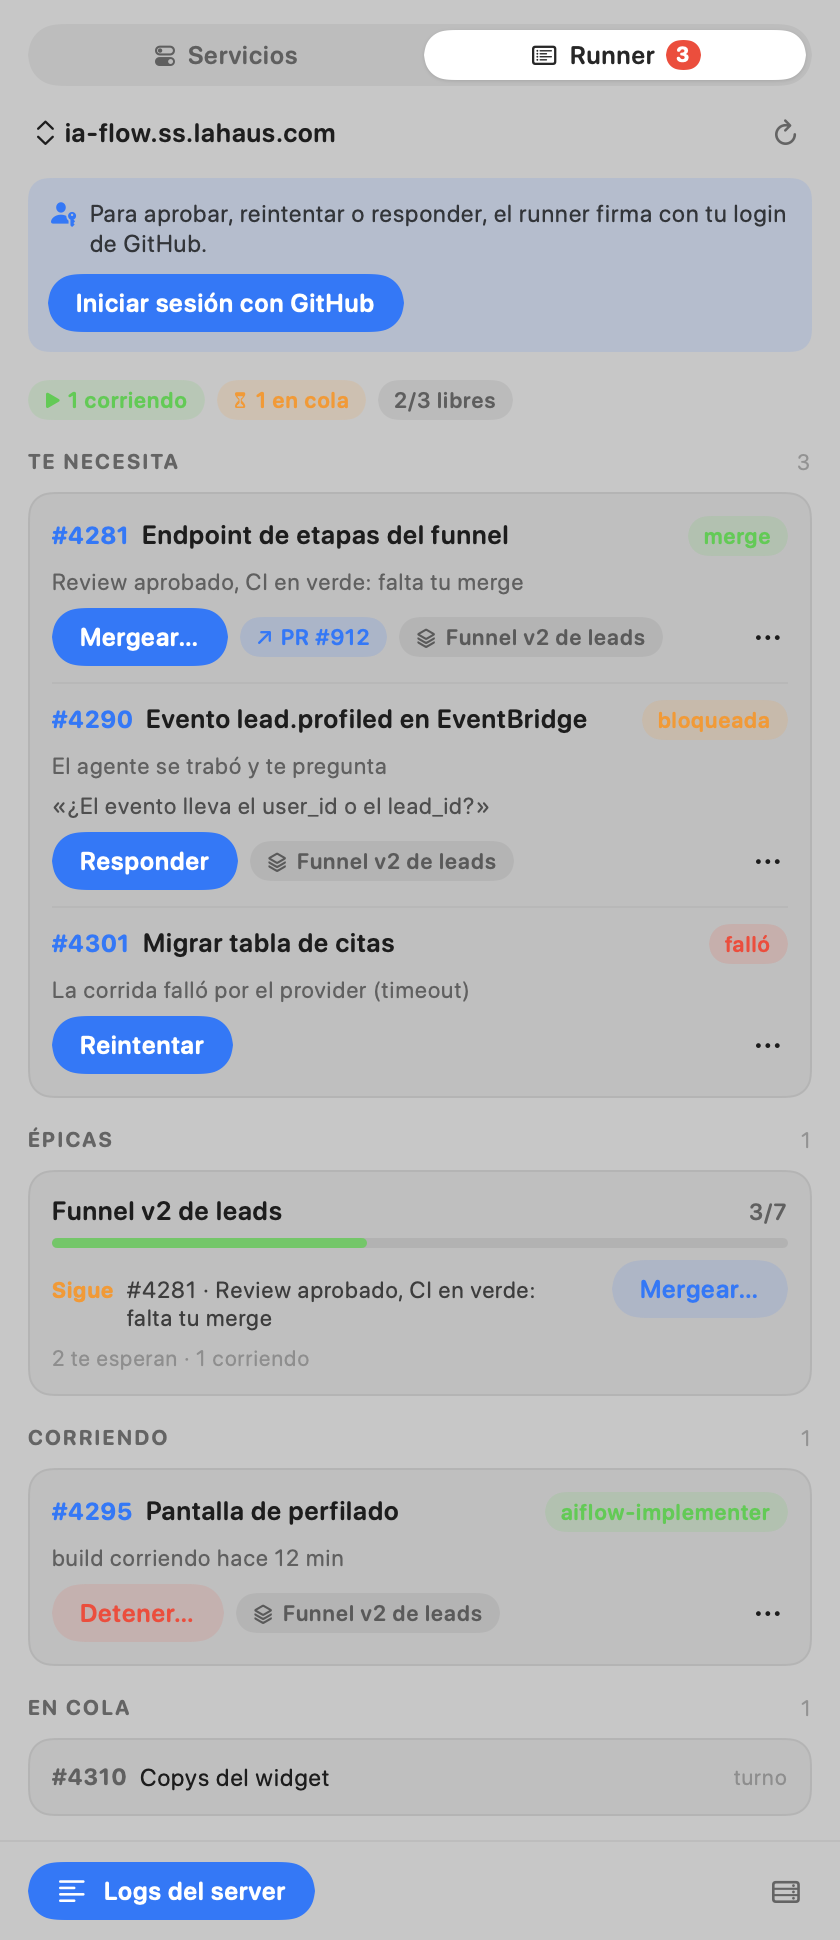
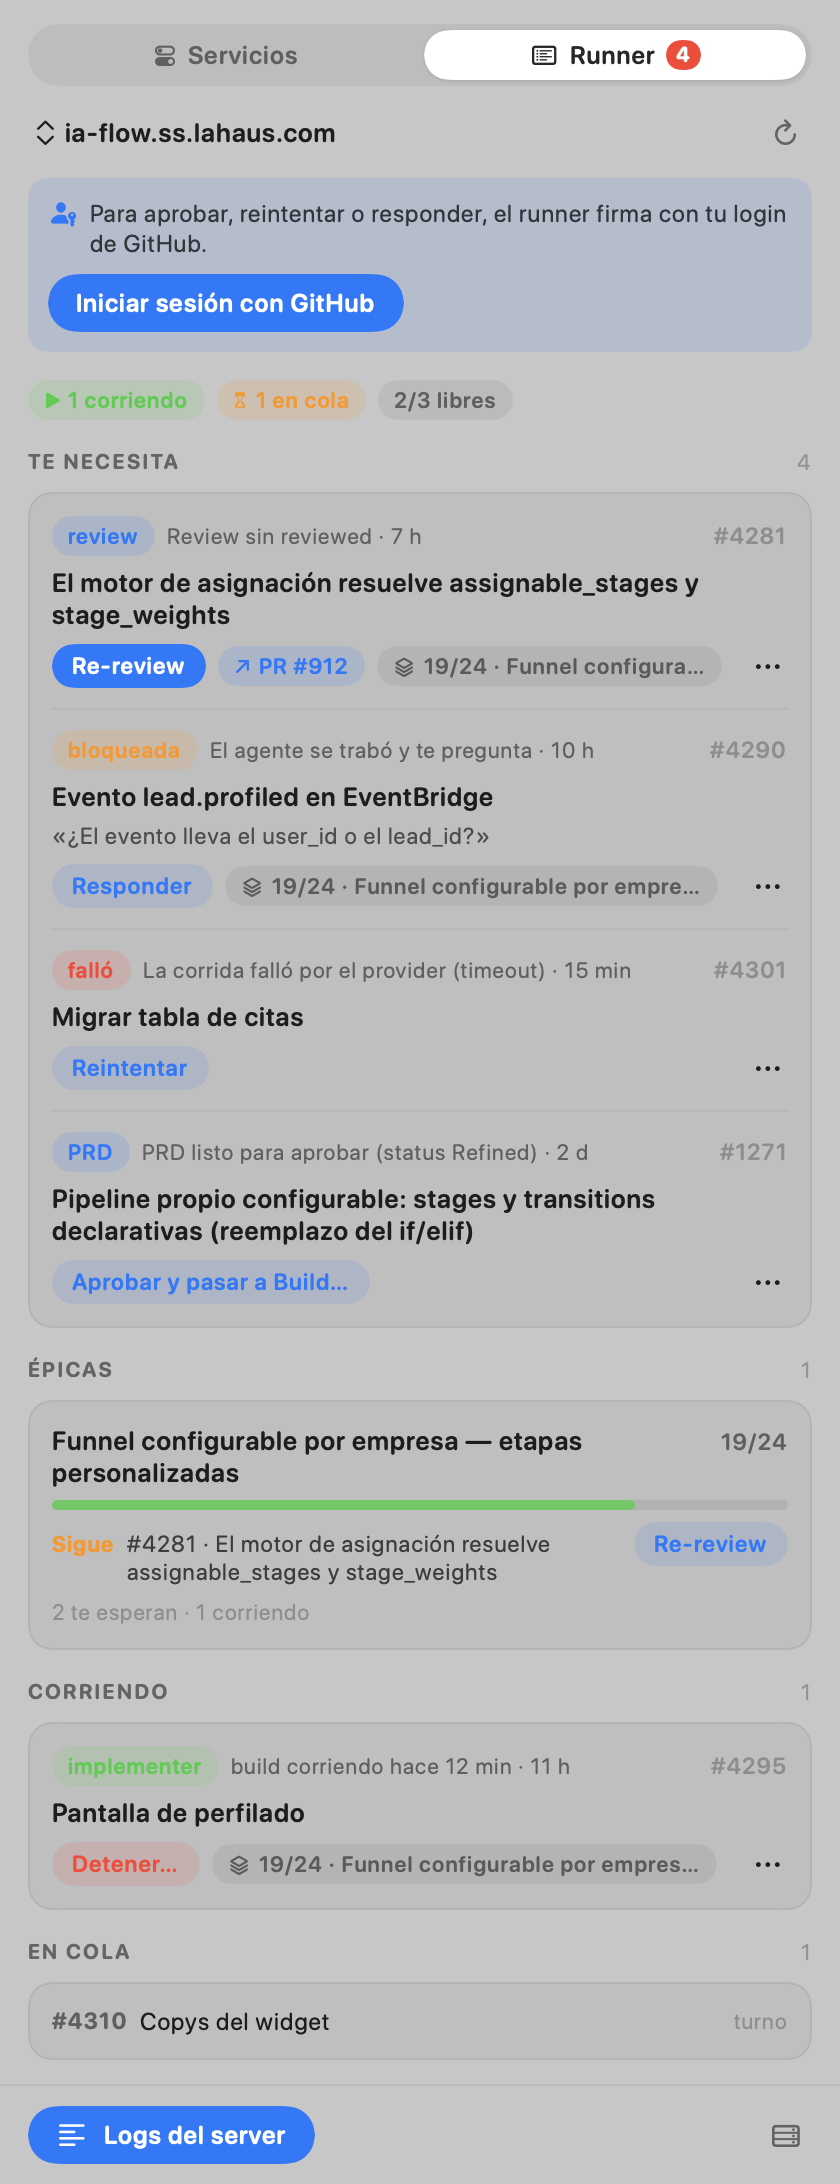
feat(menubar): filas de la bandeja más compactas y legibles
Un solo botón lleno por pantalla (la primera decisión) y botones compactos en una
línea; el caso y hace cuánto van en la línea del porqué; títulos sin el prefijo
de Conventional Commits; el PR no se repite y la épica muestra su avance primero.

diff --git a/apps/menubar/RunnerViews.swift b/apps/menubar/RunnerViews.swift
@@ -104,8 +104,8 @@ struct RunnerInboxScreen: View {
         let decisions = runner.decisions, running = runner.running, epics = runner.epics, queued = runner.queued
         section("Te necesita", count: decisions.count, empty: "Nada esperando una decisión tuya.") {
             ForEach(Array(decisions.enumerated()), id: \.element.ref) { i, item in
-                if i > 0 { Divider().opacity(0.4).padding(.vertical, 8) }
-                TaskRow(runner: runner, item: item)
+                if i > 0 { Divider().opacity(0.4).padding(.vertical, 10) }
+                TaskRow(runner: runner, item: item, primary: i == 0)
             }
         }
         if !epics.isEmpty {
@@ -118,7 +118,7 @@ struct RunnerInboxScreen: View {
         }
         section("Corriendo", count: running.count, empty: "Ningún agente trabajando ahora.") {
             ForEach(Array(running.enumerated()), id: \.element.ref) { i, item in
-                if i > 0 { Divider().opacity(0.4).padding(.vertical, 8) }
+                if i > 0 { Divider().opacity(0.4).padding(.vertical, 10) }
                 TaskRow(runner: runner, item: item)
             }
         }
@@ -154,40 +154,51 @@ struct RunnerInboxScreen: View {
     }
 }
 
-/// Una tarea con su porqué y sus acciones: la principal como botón, las demás en el menú ⋯.
+/// Una tarea: qué caso es y hace cuánto, el título, por qué está acá y sus acciones. Sólo la primera decisión de la
+/// pantalla lleva el botón lleno (como en la web, un solo primario); las demás, en tono.
 struct TaskRow: View {
     @ObservedObject var runner: RunnerModel
     let item: InboxItem
+    var primary = false
 
     var body: some View {
         let actions = actionsOf(item)
         let busy = runner.busy.contains(item.ref)
-        VStack(alignment: .leading, spacing: 6) {
-            HStack(alignment: .firstTextBaseline, spacing: 6) {
-                Button { runner.open(item) } label: { Text(item.shortRef).font(.lh(12, .bold)).foregroundStyle(Color.accentColor) }
-                    .buttonStyle(.plain).help("Abrir \(item.ref) en GitHub")
-                Text(item.title).font(.lh(13, .semibold)).lineLimit(2)
-                Spacer(minLength: 4)
+        VStack(alignment: .leading, spacing: 5) {
+            HStack(spacing: 6) {
                 kindChip
+                Text(meta).font(.lh(11)).foregroundStyle(.secondary).lineLimit(1)
+                Spacer(minLength: 4)
+                Button { runner.open(item) } label: { Text(item.shortRef).font(.lh(11.5, .semibold)).foregroundStyle(.tertiary) }
+                    .buttonStyle(.plain).help("Abrir \(item.ref) en GitHub")
             }
-            Text(item.why).font(.lh(11.5)).foregroundStyle(.secondary).lineLimit(3).fixedSize(horizontal: false, vertical: true)
+            Button { runner.open(item) } label: {
+                Text(item.displayTitle).font(.lh(13, .semibold)).lineLimit(2).multilineTextAlignment(.leading)
+                    .frame(maxWidth: .infinity, alignment: .leading).contentShape(Rectangle())
+            }
+            .buttonStyle(.plain).help(item.title)
             if let said = item.agent_said, item.isDecision {
                 Text("«\(said)»").font(.lh(11.5)).italic().foregroundStyle(.primary.opacity(0.7)).lineLimit(3)
             }
             HStack(spacing: 6) {
                 if let first = actions.first {
                     Button { runner.trigger(first, on: item) } label: {
-                        if busy { ProgressView().controlSize(.small).scaleEffect(0.6).frame(width: 40) }
+                        if busy { ProgressView().controlSize(.small).scaleEffect(0.5).frame(width: 40, height: 14) }
                         else { Text(first.confirms ? "\(first.label)…" : first.label) }
                     }
-                    .buttonStyle(PillButtonStyle(prominent: item.isDecision, tint: first.id == "stop" ? .red : .accentColor))
+                    .buttonStyle(PillButtonStyle(prominent: primary, tint: first.id == "stop" ? .red : .accentColor, compact: true))
+                    .fixedSize()
                     .disabled(busy)
                 }
                 if let pr = item.pr {
-                    Button { runner.openPR(item) } label: { Chip(text: "PR #\(pr.number)", tone: .info, icon: "arrow.up.right") }.buttonStyle(.plain)
+                    Button { runner.openPR(item) } label: { Chip(text: "PR #\(pr.number)", tone: .info, icon: "arrow.up.right") }
+                        .buttonStyle(.plain).fixedSize()
                 }
-                if let epic = item.epic { Chip(text: epic.title, icon: "square.stack.3d.up").help("Épica \(epic.ref)") }
-                Spacer()
+                if let epic = item.epic {
+                    Chip(text: "\(epic.done)/\(epic.total) · \(epic.displayTitle)", icon: "square.stack.3d.up")
+                        .help("Épica \(epic.ref): \(epic.title)")
+                }
+                Spacer(minLength: 0)
                 Menu {
                     ForEach(actions.dropFirst()) { action in
                         Button(action.confirms ? "\(action.label)…" : action.label, role: action.id == "stop" ? .destructive : nil) {
@@ -197,12 +208,21 @@ struct TaskRow: View {
                     if actions.count > 1 { Divider() }
                     Button("Abrir issue en GitHub") { runner.open(item) }
                     if item.pr != nil { Button("Abrir PR") { runner.openPR(item) } }
+                    if let epic = item.epic { Button("Abrir épica") { runner.openEpic(epic) } }
                 } label: {
-                    Image(systemName: "ellipsis").font(.system(size: 12, weight: .semibold)).frame(width: 26, height: 22).contentShape(Rectangle())
+                    Image(systemName: "ellipsis").font(.system(size: 12, weight: .semibold)).frame(width: 24, height: 20).contentShape(Rectangle())
                 }
                 .menuStyle(.borderlessButton).menuIndicator(.hidden).fixedSize().foregroundStyle(.secondary)
             }
+            .padding(.top, 2)
         }
+    }
+
+    /// El porqué sin repetir el PR (va como chip) y con hace cuánto.
+    private var meta: String {
+        var why = item.why
+        if let pr = item.pr { why = why.replacingOccurrences(of: " · PR #\(pr.number)", with: "") }
+        return [why, item.age].compactMap { $0 }.joined(separator: " · ")
     }
 
     private var kindChip: some View {
@@ -214,12 +234,12 @@ struct TaskRow: View {
             case "crash": return ("falló", .bad)
             case "stale": return ("quieta", .warn)
             case "review": return ("review", .info)
-            case "agent": return (item.execution?.agent_id ?? "agente", .ok)
+            case "agent": return (item.execution?.agent_id?.replacingOccurrences(of: "aiflow-", with: "") ?? "agente", .ok)
             case "ci": return ("CI", .info)
             default: return (item.kind, .neutral)
             }
         }()
-        return Chip(text: text, tone: tone)
+        return Chip(text: text, tone: tone).fixedSize()
     }
 }
 
@@ -231,7 +251,7 @@ struct CompactRow: View {
         Button { runner.open(item) } label: {
             HStack(spacing: 6) {
                 Text(item.shortRef).font(.lh(11.5, .bold)).foregroundStyle(.secondary)
-                Text(item.title).font(.lh(12)).lineLimit(1)
+                Text(item.displayTitle).font(.lh(12)).lineLimit(1)
                 Spacer()
                 Text(item.kind == "dep" ? "bloqueada" : "turno").font(.lh(11)).foregroundStyle(.tertiary)
             }
@@ -250,7 +270,7 @@ struct EpicRow: View {
     var body: some View {
         VStack(alignment: .leading, spacing: 6) {
             HStack(alignment: .firstTextBaseline) {
-                Button { runner.openEpic(epic.epic) } label: { Text(epic.epic.title).font(.lh(13, .semibold)).lineLimit(2).multilineTextAlignment(.leading) }
+                Button { runner.openEpic(epic.epic) } label: { Text(epic.epic.displayTitle).font(.lh(13, .semibold)).lineLimit(2).multilineTextAlignment(.leading) }
                     .buttonStyle(.plain).help("Abrir \(epic.epic.ref)")
                 Spacer()
                 Text("\(epic.epic.done)/\(epic.epic.total)").font(.lh(11.5, .semibold)).foregroundStyle(.secondary)
@@ -261,14 +281,14 @@ struct EpicRow: View {
                     Text(next.isDecision ? "Sigue" : next.group == "run" ? "Corre" : "Espera").font(.lh(11, .bold))
                         .foregroundStyle(next.isDecision ? Color.orange : .secondary)
                     Button { runner.open(next) } label: {
-                        Text("\(next.shortRef) · \(next.why)").font(.lh(11.5)).foregroundStyle(.primary.opacity(0.8)).lineLimit(2)
+                        Text("\(next.shortRef) · \(next.displayTitle)").font(.lh(11.5)).foregroundStyle(.primary.opacity(0.8)).lineLimit(2)
                             .multilineTextAlignment(.leading)
                     }
                     .buttonStyle(.plain)
                     Spacer(minLength: 4)
                     if next.isDecision, let action = actionsOf(next).first {
                         Button(action.confirms ? "\(action.label)…" : action.label) { runner.trigger(action, on: next) }
-                            .buttonStyle(PillButtonStyle(tint: .accentColor)).disabled(runner.busy.contains(next.ref))
+                            .buttonStyle(PillButtonStyle(tint: .accentColor, compact: true)).fixedSize().disabled(runner.busy.contains(next.ref))
                     }
                 }
             }

diff --git a/apps/menubar/RunnerModel.swift b/apps/menubar/RunnerModel.swift
@@ -23,6 +23,36 @@ struct EpicView: Identifiable {
 extension InboxItem {
     /// Lo que espera a una persona: `need` y `fail`.
     var isDecision: Bool { group == "need" || group == "fail" }
+    var displayTitle: String { cleanTitle(title) }
+    /// Hace cuánto está en este estado («3 h», «2 d»).
+    var age: String? { ago(since) }
+}
+
+extension TaskEpic {
+    var displayTitle: String { cleanTitle(title) }
+}
+
+/// Sin el prefijo de Conventional Commits (`feat(crm): `) que traen los títulos de los issues: en 420 pt ocupa
+/// el lugar de lo que dice el título.
+func cleanTitle(_ title: String) -> String {
+    let stripped = title.replacingOccurrences(of: #"^[a-z]+(\([^)]*\))?!?:\s*"#, with: "", options: .regularExpression)
+    guard let first = stripped.first, !stripped.isEmpty else { return title }
+    return first.uppercased() + stripped.dropFirst()
+}
+
+private let isoFractional: ISO8601DateFormatter = {
+    let f = ISO8601DateFormatter()
+    f.formatOptions = [.withInternetDateTime, .withFractionalSeconds]
+    return f
+}()
+
+func ago(_ iso: String, now: Date = Date()) -> String? {
+    guard let date = isoFractional.date(from: iso) ?? ISO8601DateFormatter().date(from: iso) else { return nil }
+    let minutes = Int(now.timeIntervalSince(date) / 60)
+    if minutes < 1 { return "ahora" }
+    if minutes < 60 { return "\(minutes) min" }
+    if minutes < 48 * 60 { return "\(minutes / 60) h" }
+    return "\(minutes / 1440) d"
 }
 
 /// Una acción como la dibuja el menú (las mismas reglas que `apps/web/src/features/inbox/queue/kinds.ts`).
@@ -333,21 +363,26 @@ final class RunnerModel: ObservableObject {
 extension RunnerModel {
     /// Datos de ejemplo para las capturas: no llama a ningún server.
     static func fixture() -> RunnerModel {
-        let epic = TaskEpic(ref: "la-haus/subscriptions#4200", title: "Funnel v2 de leads", done: 3, total: 7)
+        let epic = TaskEpic(ref: "la-haus/subscriptions#4200", title: "feat(360): funnel configurable por empresa — etapas personalizadas", done: 19, total: 24)
         func item(_ n: Int, _ title: String, group: String, kind: String, why: String, actions: [String],
                   epic: TaskEpic? = nil, priority: Int? = nil, said: String? = nil, pr: Int? = nil, agent: String? = nil) -> InboxItem {
             InboxItem(ref: "la-haus/subscriptions#\(n)", project_id: "p", title: title, url: "https://github.com", group: group, kind: kind,
-                      status: nil, why: why, since: "2026-10-15T10:00:00Z", pr: pr.map { PullRef(number: $0, url: "https://github.com") },
+                      status: nil, why: why, since: ISO8601DateFormatter().string(from: Date().addingTimeInterval(-Double(n % 50) * 900)), pr: pr.map { PullRef(number: $0, url: "https://github.com") },
                       execution: agent.map { ExecutionSummary(id: "x", pipeline_id: "build", status: "running", started_at: "", agent_id: $0) },
                       blocked_by: nil, epic: epic, agent_said: said, actions: actions, action_defs: nil, priority: priority, reasons: nil)
         }
         let inbox = Inbox(generated_at: "", projects: [], items: [
-            item(4281, "Endpoint de etapas del funnel", group: "need", kind: "merge", why: "Review aprobado, CI en verde: falta tu merge",
-                 actions: ["merge", "rerun_review"], epic: epic, priority: 1, pr: 912),
-            item(4290, "Evento lead.profiled en EventBridge", group: "need", kind: "doubt", why: "El agente se trabó y te pregunta",
+            item(4281, "feat(core): el motor de asignación resuelve assignable_stages y stage_weights", group: "need", kind: "review", why: "Review sin reviewed · PR #912",
+                 actions: ["rerun_review", "retry"], epic: epic, priority: 1, pr: 912),
+            item(4290, "fix(crm): evento lead.profiled en EventBridge", group: "need", kind: "doubt", why: "El agente se trabó y te pregunta",
                  actions: ["answer_and_unblock", "back_to_refine"], epic: epic, priority: 2, said: "¿El evento lleva el user_id o el lead_id?"),
             item(4301, "Migrar tabla de citas", group: "fail", kind: "crash", why: "La corrida falló por el provider (timeout)",
                  actions: ["retry"], priority: 3),
+            InboxItem(ref: "la-haus/subscriptions#1271", project_id: "p", title: "Pipeline propio configurable: stages y transitions declarativas (reemplazo del if/elif)",
+                      url: "", group: "need", kind: "prd", status: nil, why: "PRD listo para aprobar (status Refined)", since: "2026-10-13T10:00:00Z",
+                      pr: nil, execution: nil, blocked_by: nil, epic: nil, agent_said: nil, actions: ["approve_prd", "back_to_refine"],
+                      action_defs: [TaskActionDef(id: "approve_prd", label: "Aprobar y pasar a Build", comment: nil, confirm: "¿Aprobar el PRD?")],
+                      priority: 4, reasons: nil),
             item(4295, "Pantalla de perfilado", group: "run", kind: "agent", why: "build corriendo hace 12 min",
                  actions: ["stop"], epic: epic, agent: "aiflow-implementer"),
             item(4310, "Copys del widget", group: "queue", kind: "turn", why: "Espera un lugar libre", actions: []),

diff --git a/apps/menubar/Components.swift b/apps/menubar/Components.swift
@@ -68,12 +68,15 @@ struct PillButtonStyle: ButtonStyle {
     var prominent = false
     var tint: Color = .accentColor
     var enabled = true
+    /// Más chico y en una sola línea: los botones dentro de una fila (las acciones de una tarea).
+    var compact = false
 
     func makeBody(configuration: Configuration) -> some View {
         configuration.label
-            .font(.lh(12.5, .semibold))
-            .padding(.horizontal, 14)
-            .padding(.vertical, 7)
+            .font(.lh(compact ? 11.5 : 12.5, .semibold))
+            .lineLimit(1)
+            .padding(.horizontal, compact ? 10 : 14)
+            .padding(.vertical, compact ? 4 : 7)
             .foregroundStyle(prominent ? Color.white : tint)
             .background(Capsule().fill(prominent ? tint : tint.opacity(0.12)))
             .opacity(enabled ? (configuration.isPressed ? 0.8 : 1) : 0.4)
